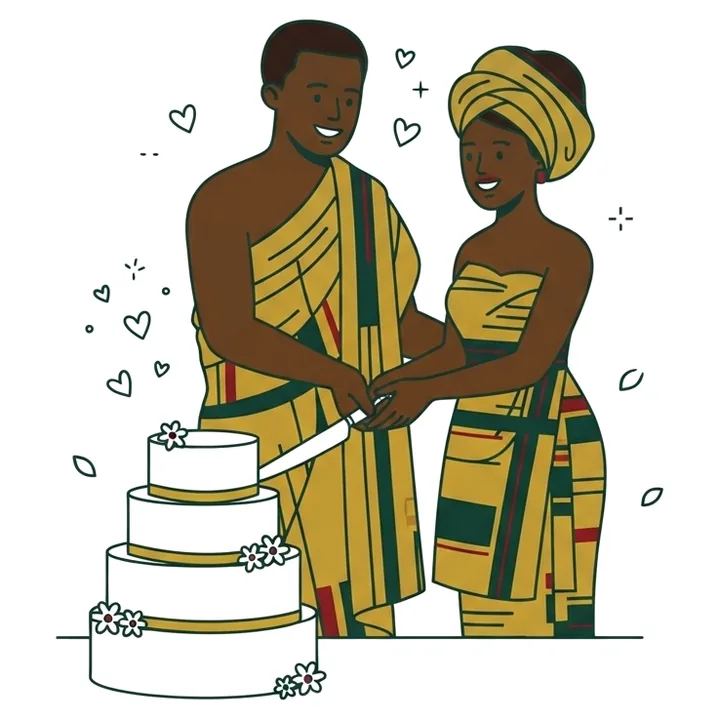
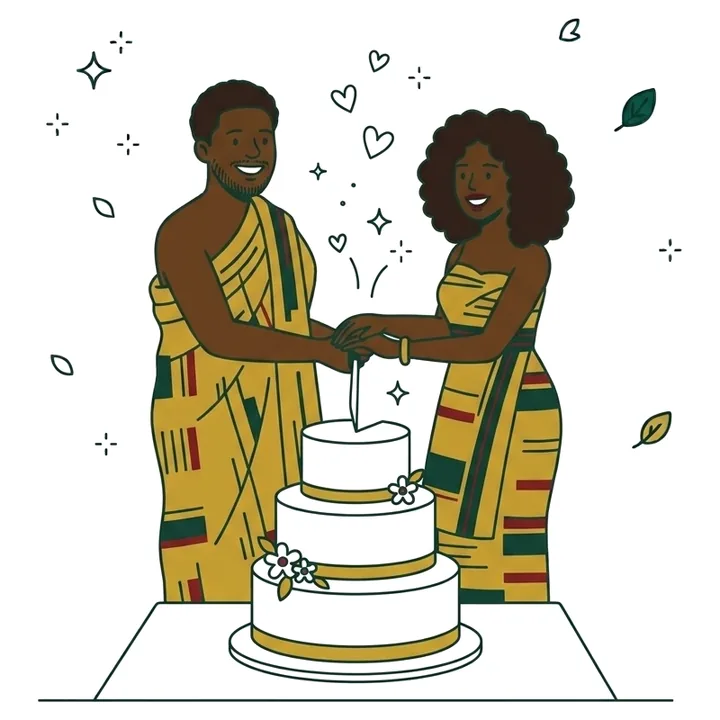
feat: nastro oro che segue lo scroll e illustrazioni del programma rifatte
autoRound false sulle animazioni di strokeDashoffset: GSAP arrotondava a 0/1 e i tratti scattavano invece di disegnarsi.

diff --git a/george-silvia/main.js b/george-silvia/main.js
@@ -21,7 +21,7 @@ $$("svg.draw use").forEach((u) => {
 });
 const drawIn = (svg, opt = {}) =>
   hasGsap && !reduce
-    ? gsap.to($$("[pathLength]", svg), { strokeDashoffset: 0, duration: 1.4, stagger: 0.1, ease: "power2.inOut", ...opt })
+    ? gsap.to($$("[pathLength]", svg), { strokeDashoffset: 0, autoRound: false, duration: 1.4, stagger: 0.1, ease: "power2.inOut", ...opt })
     : svg.classList.add("is-drawn");
 
 /* ---------- lingua ---------- */
@@ -315,7 +315,7 @@ if (!hasGsap || reduce) {
   gsap.set(heroBits, { opacity: 0 });
 
   const tl = gsap.timeline({ defaults: { ease: "expo.out" } });
-  tl.to($$(".wp", intro), { strokeDashoffset: 0, duration: 0.9, stagger: { each: 0.005, from: "center" } })
+  tl.to($$(".wp", intro), { strokeDashoffset: 0, autoRound: false, duration: 0.9, stagger: { each: 0.005, from: "center" } })
     .from($$(".wf", intro), {
       scaleX: 0,
       transformOrigin: (k, el) => (el.dataset.i % 2 ? "100% 50%" : "0% 50%"),
@@ -327,7 +327,7 @@ if (!hasGsap || reduce) {
       },
     }, 0.15)
     .fromTo(".intro__medal", { opacity: 0, scale: 0.7 }, { opacity: 1, scale: 1, duration: 0.9 }, "-=0.5")
-    .to($$(".intro__medal [pathLength]"), { strokeDashoffset: 0, duration: 1.1, stagger: 0.07, ease: "power2.inOut" }, "<0.1")
+    .to($$(".intro__medal [pathLength]"), { strokeDashoffset: 0, autoRound: false, duration: 1.1, stagger: 0.07, ease: "power2.inOut" }, "<0.1")
     .addLabel("open", "+=0.25")
     .to(".intro__medal", { scale: 1.5, opacity: 0, duration: 0.8, ease: "power2.in" }, "open")
     .to(".intro__panel--top", { yPercent: -52, duration: 1.4, ease: "expo.inOut" }, "open+=0.35")
@@ -444,7 +444,8 @@ void main(){
     });
 
     // timeline: il nastro kente si srotola con lo scroll, le illustrazioni entrano al passaggio
-    gsap.fromTo(".tl__reveal", { strokeDashoffset: 1 }, { strokeDashoffset: 0, ease: "none", scrollTrigger: { trigger: ".tl", start: "top 70%", end: "bottom 60%", scrub: 0.8 } });
+    // come su bysamlab.com: il nastro oro si allunga e si ritrae seguendo lo scroll
+    gsap.fromTo(".tl__band", { strokeDashoffset: 1 }, { strokeDashoffset: 0, autoRound: false, ease: "none", scrollTrigger: { trigger: ".tl", start: "top 78%", end: "bottom 58%", scrub: 0.5 } });
     $$(".tl__item").forEach((item) => {
       const st = { trigger: item, start: "top 75%" };
       gsap.from($(".tl__art", item), { scale: 0.85, opacity: 0, duration: 1.2, ease: "expo.out", scrollTrigger: st });

diff --git a/george-silvia/style.css b/george-silvia/style.css
@@ -187,9 +187,7 @@ body::after {
 .tl { position: relative; max-width: 1080px; margin: clamp(56px, 8vw, 96px) auto 0; }
 .tl__ribbon { position: absolute; inset: 0; width: 100%; height: 100%; overflow: visible; pointer-events: none; }
 .tl__ribbon path { fill: none; stroke-linecap: round; stroke-linejoin: round; }
-.tl__band { stroke: var(--gold); stroke-width: 22; }
-.tl__thread { stroke: var(--crimson); stroke-width: 4; stroke-dasharray: 16 12; }
-.tl__reveal { stroke: #fff; stroke-width: 40; stroke-dasharray: 1; stroke-dashoffset: 0; }
+.tl__band { stroke: var(--gold); stroke-width: 22; stroke-dasharray: 1; stroke-dashoffset: 0; }
 .tl__list { position: relative; list-style: none; margin: 0; padding: 0; display: grid; gap: clamp(40px, 7vw, 104px); }
 .tl__item { display: grid; grid-template-columns: 1fr 1fr; align-items: center; gap: clamp(24px, 4vw, 64px); }
 /* multiply: il bianco dell'illustrazione sparisce sull'avorio e lascia vedere il nastro che passa dietro */
@@ -206,8 +204,6 @@ body::after {
   .tl__art, .tl__item:nth-child(even) .tl__art { order: 0; width: 80%; justify-self: start; }
   .tl__item:nth-child(even) .tl__art { justify-self: end; }
   .tl__band { stroke-width: 14; }
-  .tl__thread { stroke-width: 3; stroke-dasharray: 10 8; }
-  .tl__reveal { stroke-width: 26; }
 }
 
 /* ---------- marquee ---------- */

diff --git a/george-silvia/index.html b/george-silvia/index.html
@@ -106,8 +106,7 @@
 
     <div class="tl">
       <svg class="tl__ribbon" aria-hidden="true">
-        <defs><mask id="tl-mask" maskUnits="userSpaceOnUse"><path class="tl__reveal" pathLength="1"/></mask></defs>
-        <g mask="url(#tl-mask)"><path class="tl__band"/><path class="tl__thread"/></g>
+        <path class="tl__band" pathLength="1"/>
       </svg>
       <ol class="tl__list">
       <li class="tl__item">

diff --git a/HANDOFF.md b/HANDOFF.md
@@ -9,8 +9,8 @@ Stato (27/11/2026): sito online con la dissolvenza WebGL nell'hero (il bordo seg
 - **Non fatto (scelte):** pulsante "Modifica risposta", intro solo alla prima visita, traduzione titolo mappa e dettagli calendario, contatto WhatsApp nel messaggio d'errore (serve il numero degli sposi).
 
 **Fatto il 27/11 (notte):**
-- Programma ridisegnato: sezione avorio, nastro kente (oro con filo cremisi tratteggiato) che si srotola con lo scroll dietro le card, sul modello di `Effetto nastro a scorrimento/` ma sottile. Percorso calcolato in JS (`ribbon()` in `main.js`): desktop passa dal centro delle card, mobile nella fascia libera accanto alle illustrazioni.
-- 5 illustrazioni degli sposi in kente (cerimonia, aperitivo, pranzo, torta, festa) generate con Gemini via Claude in Chrome: `george-silvia/assets/img/tl-1..5.webp` (originali in `Documents/Media Gen/2026-11-27-gemini-timeline/`). Fondo bianco + `mix-blend-mode: multiply` sull'avorio.
+- Programma ridisegnato: sezione avorio, nastro oro pieno che si allunga e si ritrae con lo scroll dietro le card (come su bysamlab.com: scrub 0.5, da "top 78%" a "bottom 58%"). Attenzione: le animazioni di `strokeDashoffset` con `pathLength=1` vogliono `autoRound: false`, altrimenti GSAP arrotonda a 0/1 e il tratto scatta. Percorso calcolato in JS (`ribbon()` in `main.js`): desktop passa dal centro delle card, mobile nella fascia libera accanto alle illustrazioni.
+- 5 illustrazioni (rifatte il 27/11: sposa con capelli ricci senza copricapo, sposo ispirato alla foto di Samuel, pranzo seduti con i piatti, festa piena di invitati di diverse origini, senza tamburo) (cerimonia, aperitivo, pranzo, torta, festa) generate con Gemini via Claude in Chrome: `george-silvia/assets/img/tl-1..5.webp` (originali in `Documents/Media Gen/2026-11-27-gemini-timeline/`). Fondo bianco + `mix-blend-mode: multiply` sull'avorio.
 - Icone Phosphor Light (MIT) inline nello sprite SVG: Sì/No, aggiungi/rimuovi accompagnatore, invia, calendario, indicazioni, copia.
 - "RSVP" nel menu sostituito da "Conferma presenza" / "Reply".
 
